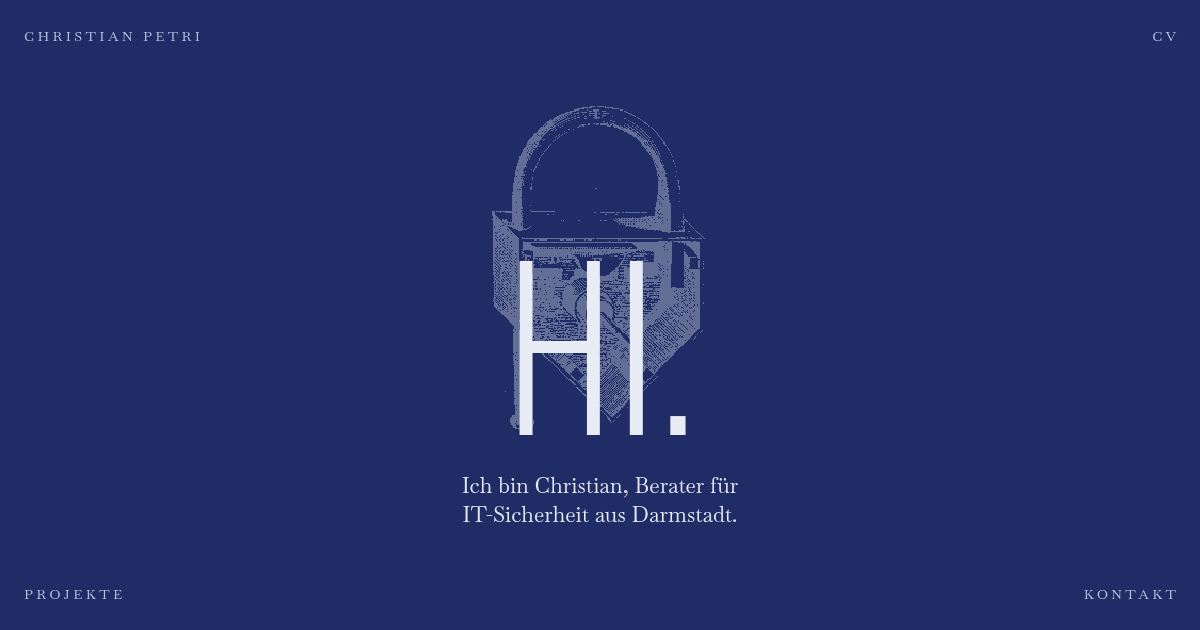
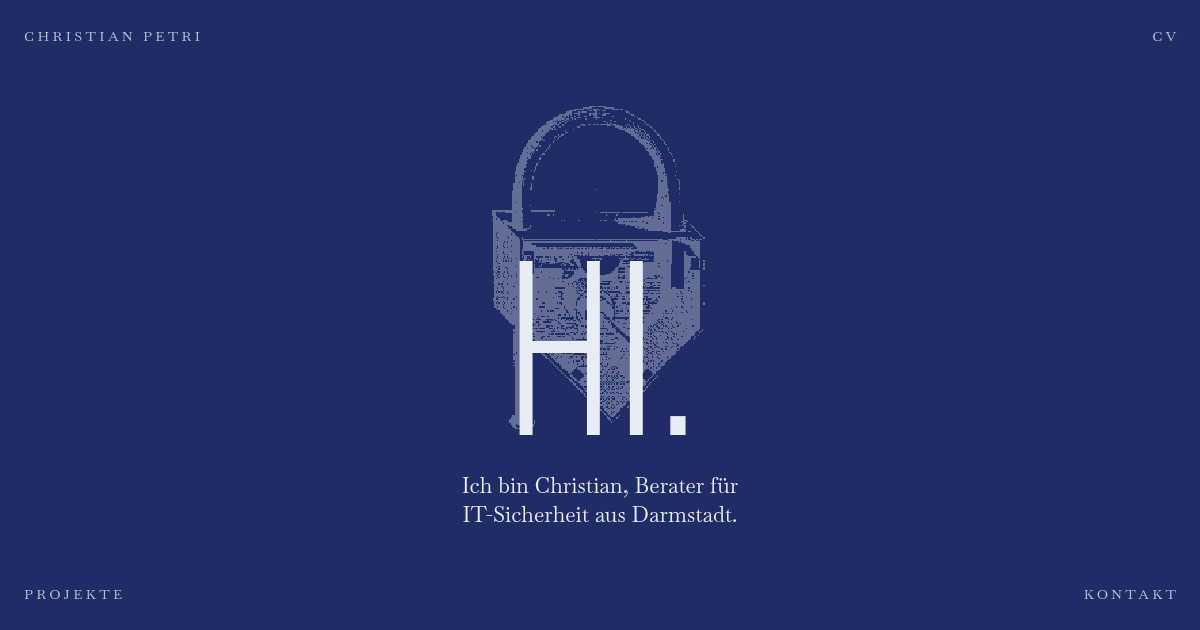
Startseite auf 9,3 kB verkleinert
Passt jetzt in die erste Netzwerkrunde. Enthält auch das WebP-Bild und
die noindex-Regel für die CV-PDFs, die schon live waren.

Changed region(s): [[0.4008, 0.3619, 0.5858, 0.6635], [0.5242, 0.2111, 0.555, 0.2413], [0.4625, 0.181, 0.4933, 0.2111]]

diff --git a/base.css b/base.css
@@ -1,21 +1,7 @@
 /* chpetri.com, shared frame. Anlassblau: one tempered-steel blue ground, pale "blank" steel ink.
-   Every page links this file; the build inlines it with the page's own stylesheet. */
-
-@font-face {
-  font-family: "Baskervville";
-  font-style: normal;
-  font-weight: 400 600;
-  font-display: swap;
-  src: url("./fonts/baskervville.woff2") format("woff2");
-}
-
-@font-face {
-  font-family: "Saira Extra Condensed";
-  font-style: normal;
-  font-weight: 300 500;
-  font-display: swap;
-  src: url("./fonts/saira-extra-condensed.woff2") format("woff2");
-}
+   Every page links this file; the build inlines it with the page's own stylesheet.
+   Only what the start page uses belongs here: every byte counts against its first round trip.
+   What only the sub-pages use goes into pages.css. */
 
 :root {
   color-scheme: dark;
@@ -26,8 +12,6 @@
   --ink-3: #a3afcc;
   --rule: rgba(232, 236, 244, 0.26);
   --rule-soft: rgba(232, 236, 244, 0.13);
-  --serif: "Baskervville", "Baskerville", "Libre Baskerville", Georgia, serif;
-  --display: "Saira Extra Condensed", "Arial Narrow", "Roboto Condensed", sans-serif;
   --edge: clamp(16px, 2vw, 30px);
   --bar: 72px;
   /* height a pinned corner bar covers at the top and the bottom edge (0 when the bars scroll) */
@@ -93,22 +77,8 @@ a:focus-visible { text-decoration-color: currentColor; }
 
 p { margin: 0; }
 h1, h2, h3, h4 { margin: 0; font-weight: 400; line-height: 1.15; text-wrap: balance; }
-ul, ol { margin: 0; padding: 0; }
-time { font-variant-numeric: lining-nums tabular-nums; }
 
 .nobr { white-space: nowrap; }
-
-.visually-hidden {
-  position: absolute;
-  width: 1px;
-  height: 1px;
-  margin: -1px;
-  padding: 0;
-  overflow: hidden;
-  clip: rect(0, 0, 0, 0);
-  white-space: nowrap;
-  border: 0;
-}
 
 .skip-link {
   position: fixed;
@@ -173,17 +143,6 @@ time { font-variant-numeric: lining-nums tabular-nums; }
 
 .corners a:focus-visible { outline-offset: -7px; }
 
-.corners a[aria-current="page"] { color: var(--ink); }
-
-/* the current page carries one raster dot, the pixel of the engraving */
-.corners a[aria-current="page"]::before {
-  content: "";
-  width: 0.42em;
-  height: 0.42em;
-  margin-right: 0.7em;
-  background: currentColor;
-}
-
 .corners-top { view-transition-name: corners-top; }
 .corners-bottom { view-transition-name: corners-bottom; }
 
@@ -202,36 +161,6 @@ time { font-variant-numeric: lining-nums tabular-nums; }
   :root { --bar: 60px; }
   .corners { font-size: 0.8125rem; letter-spacing: 0.18em; }
   .corners a:last-child { margin-right: calc(-10px - 0.18em); }
-  .corners a[aria-current="page"]::before { margin-right: 0.55em; }
-}
-
-@media print {
-  :root {
-    color-scheme: light;
-    --ground: #fff;
-    --ink: #141a33;
-    --ink-soft: #1f2640;
-    --ink-2: #3a4466;
-    --ink-3: #4f5878;
-    --rule: #b9bfd0;
-    --rule-soft: #dde1ea;
-  }
-
-  @page { size: A4; margin: 14mm; }
-
-  html, body { background: #fff; }
-  body { display: block; }
-  .corners,
-  .skip-link { display: none !important; }
-  a { text-decoration: none; }
-}
-
-/* Windows contrast themes replace backgrounds, which would erase the square markers */
-@media (forced-colors: active) {
-  .corners a[aria-current="page"]::before {
-    forced-color-adjust: none;
-    background: CanvasText;
-  }
 }
 
 @media (prefers-reduced-motion: reduce) {

diff --git a/pages.css b/pages.css
@@ -3,6 +3,89 @@
 
 @import "./base.css";
 
+/* The sub-pages' part of the shared frame. It stays out of base.css because the start page
+   has no use for it and every byte there counts against its first round trip. */
+
+@font-face {
+  font-family: "Baskervville";
+  font-style: normal;
+  font-weight: 400 600;
+  font-display: swap;
+  src: url("./fonts/baskervville.woff2") format("woff2");
+}
+
+@font-face {
+  font-family: "Saira Extra Condensed";
+  font-style: normal;
+  font-weight: 300 500;
+  font-display: swap;
+  src: url("./fonts/saira-extra-condensed.woff2") format("woff2");
+}
+
+:root {
+  --serif: "Baskervville", "Baskerville", "Libre Baskerville", Georgia, serif;
+  --display: "Saira Extra Condensed", "Arial Narrow", "Roboto Condensed", sans-serif;
+}
+
+ul, ol { margin: 0; padding: 0; }
+time { font-variant-numeric: lining-nums tabular-nums; }
+
+.visually-hidden {
+  position: absolute;
+  width: 1px;
+  height: 1px;
+  margin: -1px;
+  padding: 0;
+  overflow: hidden;
+  clip: rect(0, 0, 0, 0);
+  white-space: nowrap;
+  border: 0;
+}
+
+.corners a[aria-current="page"] { color: var(--ink); }
+
+/* the current page carries one raster dot, the pixel of the engraving */
+.corners a[aria-current="page"]::before {
+  content: "";
+  width: 0.42em;
+  height: 0.42em;
+  margin-right: 0.7em;
+  background: currentColor;
+}
+
+@media (max-width: 47.4375em) {
+  .corners a[aria-current="page"]::before { margin-right: 0.55em; }
+}
+
+@media print {
+  :root {
+    color-scheme: light;
+    --ground: #fff;
+    --ink: #141a33;
+    --ink-soft: #1f2640;
+    --ink-2: #3a4466;
+    --ink-3: #4f5878;
+    --rule: #b9bfd0;
+    --rule-soft: #dde1ea;
+  }
+
+  @page { size: A4; margin: 14mm; }
+
+  html, body { background: #fff; }
+  body { display: block; }
+  .corners,
+  .skip-link { display: none !important; }
+  a { text-decoration: none; }
+}
+
+/* Windows contrast themes replace backgrounds, which would erase the square markers */
+@media (forced-colors: active) {
+  .corners a[aria-current="page"]::before {
+    forced-color-adjust: none;
+    background: CanvasText;
+  }
+}
+
 .page {
   width: min(100%, 1120px);
   margin-inline: auto;

diff --git a/index.html b/index.html
@@ -3,9 +3,8 @@
   <head>
     <meta charset="UTF-8">
     <meta name="viewport" content="width=device-width, initial-scale=1">
-    <meta http-equiv="Content-Security-Policy" content="default-src 'self'; script-src 'self'; style-src 'self'; img-src 'self' data:; font-src 'self' data:; connect-src 'none'; object-src 'none'; base-uri 'none'; form-action 'none'">
+    <meta http-equiv="Content-Security-Policy" content="default-src 'none'; style-src 'self'; img-src 'self' data:; font-src 'self' data:; base-uri 'none'; form-action 'none'">
     <meta name="referrer" content="no-referrer">
-    <meta name="color-scheme" content="dark">
     <meta name="theme-color" content="#1f2c66">
     <title>Christian Petri – IT-Sicherheit, Darmstadt</title>
     <meta name="description" content="Ich bin Christian, Berater für IT-Sicherheit aus Darmstadt. Hier finden Sie meine Projekte, meinen Lebenslauf und Kontaktmöglichkeiten.">

diff --git a/home.css b/home.css
@@ -63,9 +63,9 @@
   left: 50%;
   top: -78%;
   height: 178%;
-  aspect-ratio: 229 / 320;
+  aspect-ratio: 5 / 7;
   translate: -50% 0;
-  background: url("./art/schloss.png") 0 0 / 100% 100% no-repeat;
+  background: url("./art/schloss.webp") 0 0 / 100% 100% no-repeat;
   image-rendering: pixelated;
   opacity: 0.34;
   animation: pull 1.4s steps(18, end) 0.15s both;
@@ -89,4 +89,10 @@
 
 @media (max-width: 47.4375em) {
   .hi-line { font-size: 1.1875rem; }
+}
+
+/* the sub-pages' full print layout is not in this file; dark ink keeps the greeting legible on paper */
+@media print {
+  :root { --ground: #fff; --ink: #141a33; }
+  .corners { display: none; }
 }

diff --git a/scripts/fonts.py b/scripts/fonts.py
@@ -35,25 +35,27 @@ LATIN = ("U+0020-007E,U+00A0-00FF,U+2011,U+2013-2014,U+2018-2019,U+201C-201E,"
 FEATURES = ["kern", "liga", "ccmp", "locl", "mark", "mkmk", "case", "lnum", "tnum", "pnum"]
 
 # Every character the start page renders in the reading face. Corner labels are
-# set in capitals by CSS, so their capital forms are listed too. The skip link
+# set in capitals by CSS, so only their capital forms are listed. The skip link
 # is set in the system face and needs no glyphs here.
 HOME_GREETING = "HI."
 HOME_TEXT = (
-    "Christian Petri CV Projekte Kontakt"
     "CHRISTIAN PETRI CV PROJEKTE KONTAKT"
     "Ich bin Christian, Berater für IT-Sicherheit aus Darmstadt."
 )
+# The inline subsets keep only copyright and licence (name IDs 0, 13, 14, as the
+# OFL asks) and no outline for missing glyphs: every byte counts there.
+HOME_OPTIONS = {"features": ["kern"], "name_ids": [0, 13, 14], "notdef_outline": False}
 
 
-def save_woff2(font, unicodes=None, text=None, features=FEATURES):
+def save_woff2(font, unicodes=None, text=None, features=FEATURES, name_ids=(0, 1, 2, 4, 6, 13, 14), notdef_outline=True):
     options = subset.Options()
     options.flavor = "woff2"
     options.layout_features = features
     options.hinting = False
     options.desubroutinize = True
-    options.name_IDs = [0, 1, 2, 4, 6, 13, 14]
+    options.name_IDs = list(name_ids)
     options.name_languages = [0x409]
-    options.notdef_outline = True
+    options.notdef_outline = notdef_outline
     subsetter = subset.Subsetter(options)
     if unicodes is not None:
         subsetter.populate(unicodes=unicodes)
@@ -105,11 +107,11 @@ def main(saira_path, baskervville_path):
     write(os.path.join(FONTS, "baskervville.woff2"), save_woff2(baskervville, unicodes=latin))
 
     saira_light = instance(saira_path, {"wdth": 62.5, "wght": 300})
-    write(os.path.join(HOME, "saira-hi.woff2"), save_woff2(saira_light, text=HOME_GREETING, features=["kern"]))
+    write(os.path.join(HOME, "saira-hi.woff2"), save_woff2(saira_light, text=HOME_GREETING, **HOME_OPTIONS))
 
     baskervville_regular = instance(baskervville_path, {"wght": 400})
     write(os.path.join(HOME, "baskervville-home.woff2"),
-          save_woff2(baskervville_regular, text=HOME_TEXT, features=["kern"]))
+          save_woff2(baskervville_regular, text=HOME_TEXT, **HOME_OPTIONS))
 
     glyphs = "".join(sorted(set(HOME_TEXT + HOME_GREETING)))
     with open(os.path.join(HOME, "glyphs.txt"), "w", encoding="utf-8") as handle:

diff --git a/PRODUCT.md b/PRODUCT.md
@@ -35,7 +35,7 @@ The completed security training, dated certifications, and IHK case study suppor
 ## Capabilities and Constraints
 
 - Static site: semantic HTML and CSS, Vite for build only, no JavaScript shipped. Zero runtime dependencies, no tracking, no cookies, no external fonts, no external network requests (strict CSP meta with `default-src 'self'`; the stylesheet is inlined per page and allowed only by its SHA-256 hash).
-- Performance rule (owner, citing endtimes.dev "Why your website should be under 14kB in size"; a first article on the site may later be about this): the first TCP round trip carries 10 × 1460 = 14,600 bytes, 1,000 of them kept for response headers. The start page renders completely from its first response: its HTML, CSS, two font subsets that cover only its own glyphs and the engraving are inlined (12.9 kB gzipped; its CSP allows `data:` fonts). Every other page keeps HTML and CSS under 13.6 kB gzipped and then loads two cached, subsetted font files. Enforced by `npm test`.
+- Performance rule (owner, citing endtimes.dev "Why your website should be under 14kB in size"; a first article on the site may later be about this): on paper the first TCP round trip carries 10 × 1460 = 14,600 bytes. Measured on the live server in real Chrome (2026-10-31 and 2026-11-01, over a VPN with 1265-byte packets), TLS tickets and the HTTP/2 setup leave far less: up to 9,400 bytes arrived in the first round trip in 38 of 39 samples, from 11,000 bytes never. The start page renders completely from its first response: its HTML, CSS, two font subsets that cover only its own glyphs and the engraving are inlined, at most 9,400 bytes at the server's Brotli level 5 (its CSP allows `data:` fonts). Owner decision (2026-11-01): this tight budget applies to the start page only. Every other page keeps HTML and CSS under 13.6 kB gzipped and then loads two cached, subsetted font files. Enforced by `npm test`.
 - Pages: `/` (start), `/cv/` (the bilingual CV, DE default / EN, print layout, one PDF per language), `/work/` ("Projekte": IHK case study with PDF download; formerly `/projects/`), `/contact/` ("Kontakt"). `/about/` and `/projects/` redirect. Confirmed for the redesign: start page is rebuilt as a minimal entry; the interactive terminal is dropped. Owner decisions (2026-10-30): the separate About page was redundant with the CV and was removed; after a design critique the top-right corner is "CV" again (recruiters look for that word) and the CV offers a PDF download; the whole site chrome is German because the audience is German (the CV stays bilingual).
 - Node >= 22.13; `npm test` builds and runs `tests/site.test.mjs`. Tests must be kept in step with the pages. Font subsets are rebuilt with `scripts/fonts.py` (Python with fontTools, development only) whenever the start page's visible text changes; a test fails until they cover it.
 - Deploy: `scripts/deploy-ftp.sh` builds, tests and uploads `dist` to the Hetzner web space over FTPS; the owner runs it (credentials stay in `~/.netrc`). `.github/workflows/test.yml` runs npm ci, npm audit and npm test on every push. `public/.htaccess` configures Apache; `public/.nojekyll` is a leftover marker for a possible GitHub Pages host.

diff --git a/README.md b/README.md
@@ -7,7 +7,7 @@ A static site in German, focused on IT security, networks, and systems: a greeti
 ## Overview
 
 - **Stack:** Semantic HTML, CSS, Vite (build only). No JavaScript is shipped. Each page links one stylesheet (`home.css`, `pages.css` or `cv.css`) that imports the shared `base.css` first; the build inlines it into one `<style>` and allows it in the Content Security Policy by SHA-256 hash.
-- **First round trip:** the start page renders completely from its first response: two font subsets that cover only its own letters and the engraving are inlined too, 12.9 kB gzipped in total (TCP slow start sends 14,600 bytes before the first acknowledgement; 1,000 are left for headers). Every other page keeps HTML and CSS under 13.6 kB gzipped and then loads two cached font files. `npm test` enforces both.
+- **First round trip:** the start page renders completely from its first response: two font subsets that cover only its own letters and the lossless WebP engraving are inlined too, 9.4 kB in total as the server sends it (Brotli level 5). That budget is measured, not arithmetic: TCP slow start allows 14,600 bytes on paper, but TLS tickets and the HTTP/2 setup use up packets. On the live server, over a VPN with small packets, real Chrome got up to 9,400 bytes in the first round trip in 38 of 39 samples, and from 11,000 bytes never. Every other page keeps HTML and CSS under 13.6 kB gzipped and then loads two cached font files. `npm test` enforces both.
 - **Hosting:** a Hetzner web space serves chpetri.com. `scripts/deploy-ftp.sh` builds, tests and uploads `dist/` over FTPS (credentials in `~/.netrc`, see the script). GitHub Actions runs the tests on every push.
 - **Design:** one ground for the whole site, Anlassblau (#1f2c66, the blue of tempered steel), with pale steel ink. Behind the greeting stands a cut-away padlock from the plates of Diderot's Encyclopédie (public domain, see `art/README.md`); Petri is the genitive of Petrus, the keeper of the keys. Two self-hosted typefaces under the SIL Open Font License: Baskervville for reading and the corner capitals, Saira Extra Condensed for large words and labels (see `fonts/README.md`). Design system: `DESIGN.md`.
 - **Principles:** zero runtime dependencies, no tracking or cookies, no external requests, strict Content Security Policy.

diff --git a/DESIGN.md b/DESIGN.md
@@ -150,7 +150,7 @@ Two voices from the plate's era and its machine. Saira Extra Condensed, light an
 - Two faces with fixed jobs: Saira announces and labels, Baskervville reads and sets the corners.
 - The square raster dot is the only marker: current page, chosen language, list bullets.
 - Flat material: hairlines at 26 % and 13 % ink, no box borders, no shadows, no radius.
-- The start page renders completely from its first response (inline font subsets and engraving, under 13.6 kB gzipped); no JavaScript anywhere.
+- The start page renders completely from its first response (inline font subsets and engraving, at most 9,400 bytes at the server's Brotli level 5); no JavaScript anywhere.
 
 ## Colors
 
@@ -271,7 +271,7 @@ Blank Steel block with Anlassblau system-ui text, fixed at 16px, shown on focus.
 - **Do** size reading text and labels in rem, width breakpoints in em, and measures on the start page in em.
 - **Do** mark state with the square raster dot, and give it a system colour in forced-colours mode.
 - **Do** link exactly one stylesheet per page that `@import`s the shared frame first, so page rules win ties.
-- **Do** keep the start page complete in its first response: inline subsets and art only, font stacks without the full web fonts, under 13.6 kB gzipped; rerun `scripts/fonts.py` when its text changes.
+- **Do** keep the start page complete in its first response: inline subsets and art only, font stacks without the full web fonts, at most 9,400 bytes at Brotli level 5; rerun `scripts/fonts.py` when its text changes, and put CSS only the sub-pages use into `pages.css`, not `base.css`.
 - **Do** reprint both CV PDFs after any CV or print change, check that `pdftotext` shows no spaced capitals and no keyword joined across a line-end hyphen, and keep the download labels' sizes true.
 
 ### Don't:

diff --git a/art/README.md b/art/README.md
@@ -9,8 +9,24 @@ The cut-away padlock behind the greeting on the start page.
 - **Processing:** crop of the padlock figure at 1600 px width (box 1130,1110 to 1570,1780), upscaled 3× with Lanczos, autocontrast, plate caption removed (top 165 px of the upscaled crop), scaled to 229 × 320, thresholded at 150 to 1 bit, saved as a two-colour palette PNG: ink `#e8ecf4`, paper transparent. The page shows it with `image-rendering: pixelated` at a third of full strength.
 - **Provenance** is also embedded in the file as a PNG text chunk.
 
-The build inlines it into the start page as a data URI (4.5 kB).
+The PNG (4,545 bytes) remains the source, including its provenance metadata.
+
+## `schloss.webp`
+
+The start page uses this smaller lossless WebP derivative (180 × 252 pixels,
+2,300 bytes), inlined as a data URI. It is scaled down from the PNG and put through
+the 1-bit threshold again. At a third of full strength behind the greeting it looks
+almost the same and saves 1.4 kB of the start page's first round trip. Metadata stays
+with the source PNG and this document.
+
+Regenerate with ImageMagick:
+
+```bash
+magick art/schloss.png -alpha extract -filter Box -resize 180x252! -threshold 43% \
+  \( +clone -fill '#e8ecf4' -colorize 100 \) +swap -compose CopyOpacity -composite \
+  -strip -define webp:lossless=true -define webp:method=6 -quality 100 art/schloss.webp
+```
 
 ## `public/og.png`
 
-The social preview: a headless Chromium screenshot of the start page at 1200 × 630, quantised to 32 colours. Regenerate it after changing the start page.
+The social preview: a headless Chromium screenshot of the start page at 1200 × 630, quantised to 32 colours (`magick shot.png -dither None -colors 32 -strip PNG8:public/og.png`). Regenerate it after changing the start page.

diff --git a/fonts/README.md b/fonts/README.md
@@ -11,4 +11,6 @@ Two typefaces, self-hosted as subsets, both under the SIL Open Font License 1.1 
 
 All four are produced by `scripts/fonts.py` (fontTools 4.68: `varLib.instancer` for the instances, the subsetter with `--flavor=woff2`, no hinting, desubroutinized; layout features kern, liga, ccmp, locl, mark, mkmk, case, lnum, tnum, pnum for the two full files, kern only for the start-page subsets). The Latin range is `U+0020-007E, U+00A0-00FF, U+2011, U+2013-2014, U+2018-2019, U+201C-201E, U+2022, U+2026, U+2032-2033, U+20AC`; German umlauts and ß are inside Latin-1. Any character outside that range falls back to the system stack.
 
-The start-page subsets are inlined into `index.html` by the build (see `vite.config.js`) so that page renders from its first response. They contain only the letters in `home/glyphs.txt`; change any visible text on the start page and run the script again. `npm test` checks the coverage.
+The start-page subsets are inlined into `index.html` by the build (see `vite.config.js`) so that page renders from its first response. They contain only the letters in `home/glyphs.txt`, keep only the copyright and licence names (IDs 0, 13, 14) and have no outline for missing glyphs; change any visible text on the start page and run the script again. `npm test` checks the coverage.
+
+The script always writes all four files. A run on 2026-11-01 from the then-current google/fonts sources changed the two full files too (other bytes, Saira 52 bytes larger). If only the start page changed, restore them with `git checkout -- fonts/baskervville.woff2 fonts/saira-extra-condensed.woff2`, so the sub-pages keep their cached font files.
